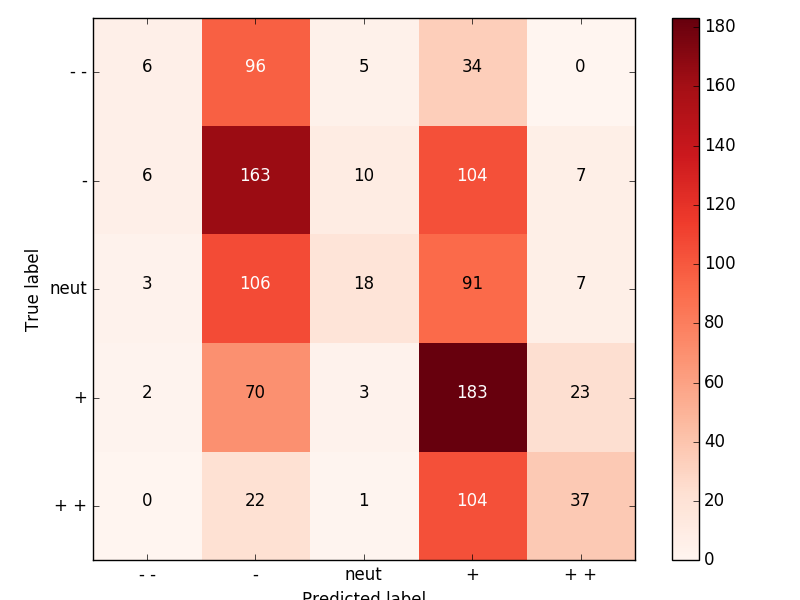
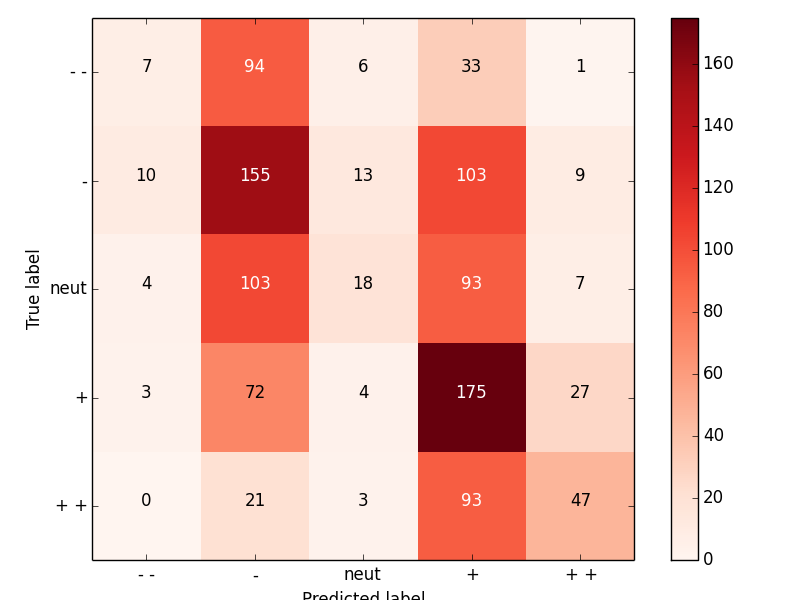
almost finished assignment1

diff --git a/assignment1/q4_sentiment.py b/assignment1/q4_sentiment.py
@@ -49,7 +49,9 @@ def getSentenceFeatures(tokens, wordVectors, sentence):
     sentVector = np.zeros((wordVectors.shape[1],))
 
     ### YOUR CODE HERE
-    raise NotImplementedError
+    for word in sentence:
+        sentVector += wordVectors[tokens[word]]
+    sentVector /= len(sentence)
     ### END YOUR CODE
 
     assert sentVector.shape == (wordVectors.shape[1],)
@@ -63,7 +65,7 @@ def getRegularizationValues():
     """
     values = None   # Assign a list of floats in the block below
     ### YOUR CODE HERE
-    raise NotImplementedError
+    values = [1e-6,1e-5,0.0001,0.001,0.01,0.1]
     ### END YOUR CODE
     return sorted(values)
 
@@ -89,7 +91,12 @@ def chooseBestModel(results):
     bestResult = None
 
     ### YOUR CODE HERE
-    raise NotImplementedError
+    bestDevAccuracy = 0
+    for result in results:
+        devAccuracy = result["dev"]
+        if devAccuracy > bestDevAccuracy:
+            bestDevAccuracy = devAccuracy
+            bestResult = result
     ### END YOUR CODE
 
     return bestResult
@@ -163,6 +170,7 @@ def main(args):
 
     # Load the train set
     trainset = dataset.getTrainSentences()
+    
     nTrain = len(trainset)
     trainFeatures = np.zeros((nTrain, dimVectors))
     trainLabels = np.zeros((nTrain,), dtype=np.int32)
